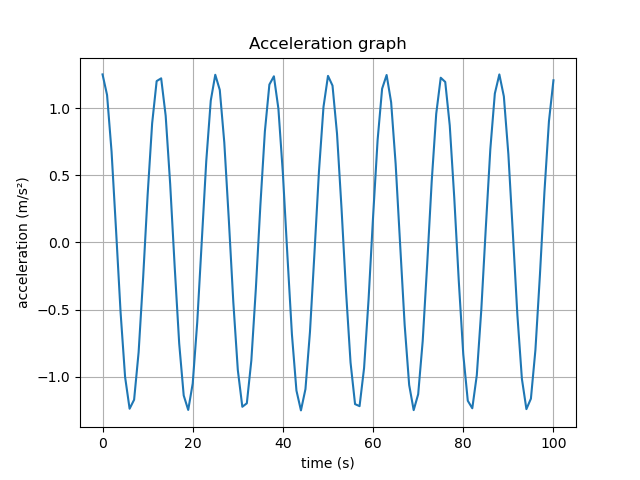
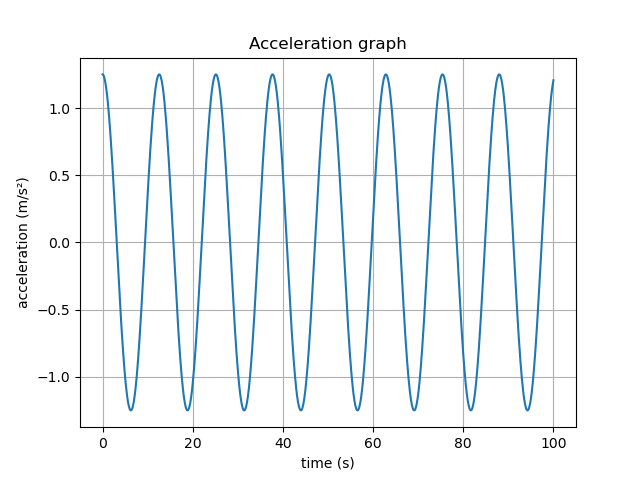
Better graph with linspace() to generate the time array

diff --git a/main.py b/main.py
@@ -20,21 +20,22 @@ def acceleration(time):
     return amplitude * (angular_velocity ** 2) * np.cos(phi + angular_velocity * time)
 
 # Setting the numpy arrays
-time_array = np.arange(total_time + 1)
+time_array = np.linspace(0, total_time, num=1000, dtype=float)
 displacement_array = np.array(displacement(time_array), dtype=float)
 velocity_array = np.array(velocity(time_array), dtype=float)
 acceleration_array = np.array(acceleration(time_array), dtype=float)
 
+# Important information
 max_speed = amplitude * angular_velocity
 max_acc = amplitude * (angular_velocity ** 2)
 time_period = (2 * np.pi) / angular_velocity
 total_mechanical_energy = (mass * (angular_velocity ** 2) * (amplitude ** 2)) * 0.5
 
+# Print some important values
 print(f"Maximum speed: \t{max_speed}\n")
 print(f"Maximum acceleration: \t{max_acc}\n")
 print(f"Time period: \t{time_period:.2f}\n")
 print(f"Total mechanical energy: \t{total_mechanical_energy:.2f}\n\n")
-
 
 # Setting up matplotlib for plotting the graph
 fig, time_velocity = plt.subplots()
